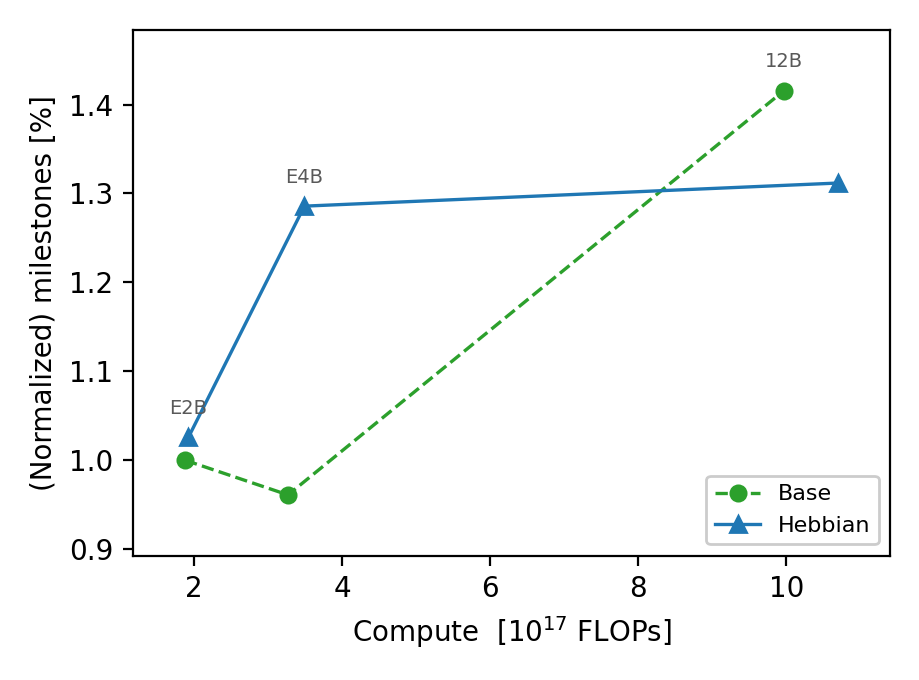
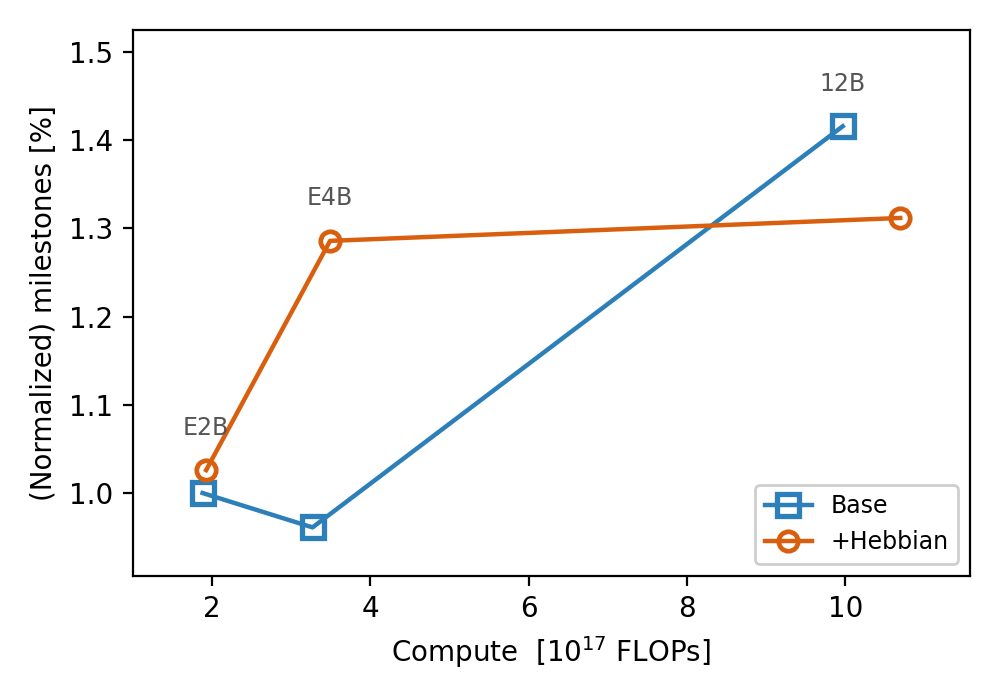
Pareto figures: house aesthetic of the social-interval frontier; coop + milestones + reward
Restyle to match make_pareto_social_fig.fig_pareto_paper exactly -- open
markers in the house colours (base #2c7fb8 squares, +Hebbian #d95f0e
circles, shared with make_scaling_fig), solid line within an arm, framed
legend lower-right, no grid, linear compute axis, no error bars, and the
same grey size labels as its Delta labels. Default --ys is now
coop_pct,milestone_pct,reward, so a bare run emits the three paper figures
plus the composite and the two-panel --paper variant.

Changed region(s): [[0.0305, 0.0309, 0.975, 0.9574]]

diff --git a/scripts/make_pareto_grid.py b/scripts/make_pareto_grid.py
@@ -101,19 +101,23 @@ X_AXES = {
 # benchmark score, which would be a property of the backbone only.
 BELIEF_COLS = {"grounding": "perception_grounding_rate",
                "partner_loc": "partner_loc_accuracy"}
-# Aesthetics: a 1:1 match of the CoDe Fig. 10 reference (matplotlib defaults:
-# white canvas, full black box, no grid, tab10 colours, dashed/solid lines
-# with per-series markers, framed legend lower-right, no error bars). The
-# base arm mirrors "CoDe" (green, dashed, circles) and the Hebbian arm mirrors
-# its "[eta]" variant (blue, solid, triangles) -- the same base-vs-variant
-# pairing the reference uses. Marker shape + line style carry the arm, so
-# identity is never colour-alone.
+# Aesthetics: identical to make_pareto_social_fig.fig_pareto_paper (the
+# social-interval frontier), which is itself styled after the compute-vs-reward
+# frontiers in the inference-time-scaling literature -- OPEN markers, house
+# colours, solid connecting line, framed legend lower-right, no grid, no error
+# bars, linear compute axis. House colours are shared with make_scaling_fig so
+# every compute figure in the paper reads as one family.
+BASE_COLOR = "#2c7fb8"     # baseline house colour
+SERIES_COLOR = "#d95f0e"   # hebbian house colour
 ARM_STYLE = {
-    "base":    dict(color="#2ca02c", ls="--", marker="o", label="Base"),
-    "hebbian": dict(color="#1f77b4", ls="-",  marker="^", label="Hebbian"),
+    "base":    dict(color=BASE_COLOR,   marker="s", ms=8, mew=1.9,
+                    label="Base"),
+    "hebbian": dict(color=SERIES_COLOR, marker="o", ms=7, mew=1.7,
+                    label="+Hebbian"),
 }
-# Families: Gemma filled markers, Qwen hollow (only relevant with --families).
-FAMILY_FILL = {"gemma": True, "qwen": False}
+# Families: Gemma open markers (the house look); Qwen filled, only relevant
+# when --families is used to bring Qwen back.
+FAMILY_OPEN = {"gemma": True, "qwen": False}
 FAMILY_LABEL = {"gemma": "Gemma 4", "qwen": "Qwen3.5"}
 # Point labels: the family is already carried by marker shape + legend, so
 # the label only needs the size. Gemma keeps E2B/E4B/12B; Qwen gets a short
@@ -249,6 +253,7 @@ def draw_panel(ax, data, families, y, x, perception, label_points=True,
     """
     n = 0
     tops = {}
+    all_y = []
     for family in families:
         ref = None
         if normalize:
@@ -264,16 +269,19 @@ def draw_panel(ax, data, families, y, x, perception, label_points=True,
             ys = [p[1] / scale for p in pts]
             es = [p[2] / scale for p in pts]
             st = ARM_STYLE[arm]
-            filled = FAMILY_FILL.get(family, True)
+            open_marker = FAMILY_OPEN.get(family, True)
             label = st["label"] if len(families) == 1 else \
                 "{} — {}".format(FAMILY_LABEL[family], st["label"])
             if errorbars:
                 ax.errorbar(xs, ys, yerr=es, fmt="none", ecolor=st["color"],
-                            elinewidth=0.8, capsize=2, alpha=0.6, zorder=2)
-            ax.plot(xs, ys, linestyle=st["ls"], linewidth=1.2,
-                    color=st["color"], marker=st["marker"], markersize=5.5,
-                    markerfacecolor=st["color"] if filled else "white",
-                    markeredgecolor=st["color"], markeredgewidth=1.0,
+                            elinewidth=0.9, capsize=2.5, alpha=0.6, zorder=2)
+                all_y += [v + e for v, e in zip(ys, es)]
+                all_y += [v - e for v, e in zip(ys, es)]
+            all_y += ys
+            ax.plot(xs, ys, ls="-", lw=1.6, color=st["color"],
+                    marker=st["marker"], ms=st["ms"],
+                    mfc="none" if open_marker else st["color"],
+                    mec=st["color"], mew=st["mew"],
                     label=label, zorder=3)
             n += 1
             if label_points:
@@ -283,24 +291,27 @@ def draw_panel(ax, data, families, y, x, perception, label_points=True,
                     if key not in tops or top > tops[key][1]:
                         tops[key] = [xv, top]
     if label_points:
-        # One label per size, above the taller arm. Labels are SHORT
-        # ("Q-2B", not "Qwen3.5-2B") so interleaved families cannot collide.
+        # One label per size, above the higher arm; same grey/size as the
+        # Delta labels on the social-interval frontier.
         for (_, lab), (xv, top) in tops.items():
             ax.annotate(lab, (xv, top), textcoords="offset points",
-                        xytext=(0, 7), ha="center", va="bottom",
-                        fontsize=7, color="0.35", zorder=4)
+                        xytext=(0, 11), ha="center", va="bottom",
+                        fontsize=8.5, color="#555555", zorder=4)
     ax.set_xlabel(X_AXES[x])
     ylabel = Y_METRICS[y]
     if normalize:
         ylabel = "(Normalized) " + ylabel[0].lower() + ylabel[1:]
     ax.set_ylabel(ylabel)
-    # Reference look: full box, no grid, default ticks, a little headroom
-    # for the point labels.
+    # Same framing as the social frontier: no grid, generous headroom above so
+    # the size labels clear the top marker.
     ax.grid(False)
-    ax.margins(x=0.08, y=0.15)
+    if all_y:
+        lo, hi = min(all_y), max(all_y)
+        pad = max(1e-9, 0.12 * (hi - lo)) if hi > lo else max(abs(hi) * 0.1, 1.0)
+        ax.set_ylim(lo - pad, hi + 2.0 * pad)
+    ax.margins(x=0.10)
     if n:
-        ax.legend(loc=legend_loc, fontsize=8, frameon=True, framealpha=1.0,
-                  edgecolor="0.8")
+        ax.legend(loc=legend_loc, fontsize=8.5, framealpha=0.95)
     return n
 
 
@@ -322,7 +333,8 @@ def main():
                     help="comma-separated subset of gemma,qwen,both — Qwen is "
                          "excluded from the paper's plots by decision, so the "
                          "default is gemma only")
-    ap.add_argument("--ys", default=",".join(Y_METRICS))
+    ap.add_argument("--ys", default="coop_pct,milestone_pct,reward",
+                    help="comma-separated subset of {}".format(",".join(Y_METRICS)))
     ap.add_argument("--xs", default="flops",
                     help="comma-separated subset of {}; the perception axes "
                          "are available but off by default (dropped from the "
@@ -345,7 +357,7 @@ def main():
 
     import matplotlib
     matplotlib.use("Agg")
-    matplotlib.rcdefaults()   # the reference figure IS the matplotlib default look
+    matplotlib.rcdefaults()   # start from a clean sheet; styling is explicit below
     import matplotlib.pyplot as plt
 
     args.out_dir.mkdir(parents=True, exist_ok=True)
@@ -419,7 +431,7 @@ def main():
     for fam in families:
         for y in ys:
             for x in xs:
-                fig, ax = plt.subplots(figsize=(4.6, 3.4), dpi=200)
+                fig, ax = plt.subplots(figsize=(5.0, 3.5), dpi=200)
                 n = draw_panel(ax, data, FAMILIES[fam], y, x, perception,
                                label_points=not args.no_point_labels,
                                errorbars=args.errorbars,
@@ -434,7 +446,7 @@ def main():
         # composite: rows = y metrics, cols = x axes
         if len(ys) > 1 or len(xs) > 1:
             fig, axes = plt.subplots(len(ys), len(xs),
-                                     figsize=(4.6 * len(xs), 3.4 * len(ys)),
+                                     figsize=(5.0 * len(xs), 3.5 * len(ys)),
                                      dpi=200, squeeze=False)
             any_drawn = False
             for i, y in enumerate(ys):
@@ -454,7 +466,7 @@ def main():
         # RQ1 -- task return and cooperative coverage -- against compute, side
         # by side, one legend (right panel).
         if args.paper and "flops" in xs:
-            fig, axes = plt.subplots(1, 2, figsize=(8.6, 3.3), dpi=200)
+            fig, axes = plt.subplots(1, 2, figsize=(9.4, 3.5), dpi=200)
             drawn = 0
             for ax, y in zip(axes, ("reward", "coop_pct")):
                 drawn += draw_panel(ax, data, FAMILIES[fam], y, "flops",
